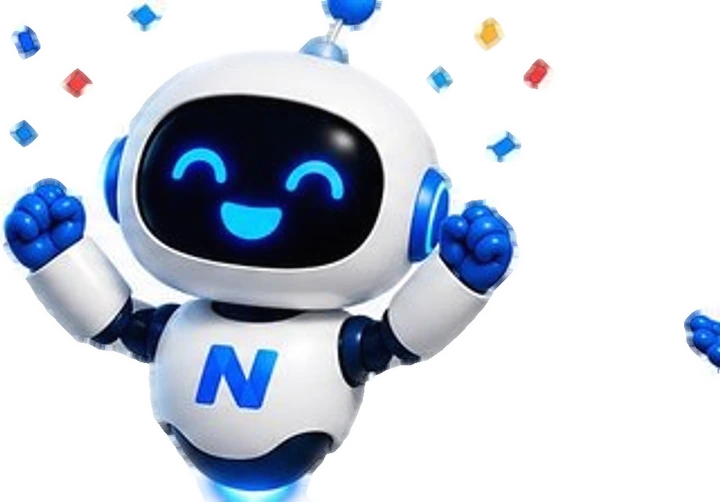
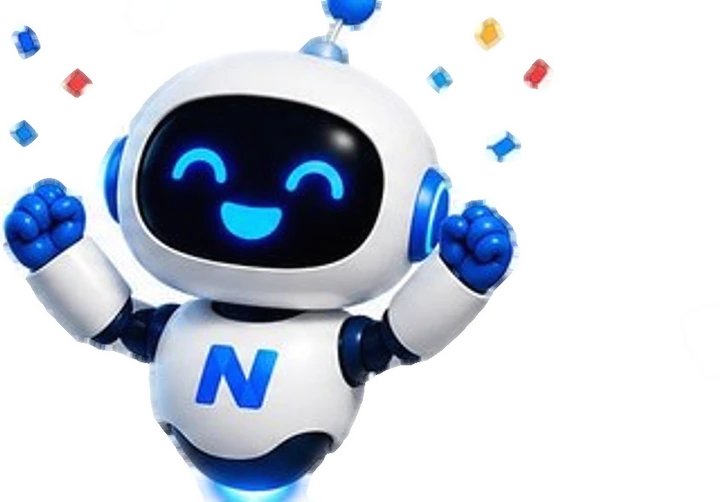
style: la mascota de Nexo en alta calidad en el inicio de sesion, el recorrido de bienvenida, el asistente y Cargar inventario (recorte limpio, sin pedazos sueltos)

Changed region(s): [[0.9472, 0.5976, 1.0, 0.747], [0.1833, 0.0, 0.2444, 0.0598]]

diff --git a/public/index.html b/public/index.html
@@ -86,7 +86,7 @@
   <link rel="stylesheet" href="css/components/ticket-qr.css?v=ticket-qr-20261103-02">
   <link rel="stylesheet" href="css/components/acciones-tabla.css?v=acciones-20261103-05">
   <link rel="stylesheet" href="css/components/por-vencer.css?v=pv-20261103-04">
-  <link rel="stylesheet" href="css/components/practica-nexo.css?v=practica-20261104-13">
+  <link rel="stylesheet" href="css/components/practica-nexo.css?v=practica-20261104-14">
  <script src="https://cdn.jsdelivr.net/npm/chart.js"></script>
  <script src="https://cdn.jsdelivr.net/npm/jsbarcode@3.11.5/dist/JsBarcode.all.min.js"></script>
  <script src="https://cdn.jsdelivr.net/npm/xlsx@0.18.5/dist/xlsx.full.min.js"></script>
@@ -100,7 +100,7 @@
    <div class="rn-marca"><img src="nexo-pos-icon.jpg" alt="Nexo"><span>Nexo</span></div>
    <div class="rn-escena">
     <div class="rn-burbuja">¡Hola! Soy Nexo 👋<br>Te acompaño para que tu negocio quede listo en unos minutos.</div>
-    <img class="rn-mascota" src="img/nexo-ia/celebrando-transparente.png" alt="Nexo, tu asistente">
+    <img class="rn-mascota" src="img/nexo-ia/celebrando-hd.webp" alt="Nexo, tu asistente">
    </div>
   </aside>
   <main class="rn-contenido">
@@ -280,7 +280,7 @@
  <img src="nexo-pos-logo-transparente.png" alt="Nexo">
  </div>
 
- <img class="login-personaje" src="img/nexo-ia/feliz-transparente.png" alt="Nexo">
+ <img class="login-personaje" src="img/nexo-ia/feliz-hd.webp" alt="Nexo">
 
  </div>
 
@@ -312,7 +312,7 @@
  </div>
  </div>
  <div class="pin-perfil-saludo">
- <img src="img/nexo-ia/feliz-transparente.png" alt="Nexo">
+ <img src="img/nexo-ia/feliz-hd.webp" alt="Nexo">
  <div>
  <strong>¡Hola! Soy Nexo</strong>
  <span>Ingresa tu codigo de acceso para continuar.</span>
@@ -395,7 +395,7 @@
 
  <div data-rn-etapas="2"></div>
  <div class="rn-saludo-perfil">
-  <img src="img/nexo-ia/feliz-transparente.png" alt="Nexo">
+  <img src="img/nexo-ia/feliz-hd.webp" alt="Nexo">
   <div><strong>¡Ya casi!</strong><span>Dime cómo te llamo y elige un PIN. Es lo que usarás para entrar a diario.</span></div>
  </div>
 
@@ -1879,7 +1879,7 @@
   <script src="js/toast-pos.js?v=asistente-20261014-01"></script>
   <script src="js/desktop-updates.js?v=desktop-updates-20260826-01"></script>
   <script src="js/caja-recordatorios.js?v=recordatorio-caja-20260731-01"></script>
-  <script src="js/recorrido-nexo.js?v=equipo-20261025-01"></script>
+  <script src="js/recorrido-nexo.js?v=hd-20261104-02"></script>
   <script src="js/perfil-negocio.js?v=perfil-20261030-12"></script>
   <script src="js/config-auth.js?v=perfil-20261030-12"></script>
   <script src="js/ticket-template.js?v=ticket-digital-20260831-01"></script>
@@ -1928,7 +1928,7 @@
  <script src="js/servicios-pos.js?v=servicios-20261030-01"></script>
  <script src="js/favoritos-pos.js?v=favoritos-20261031-04"></script>
  <script src="js/fotos-sugeridas.js?v=fotos-sugeridas-20261021-02"></script>
-<script src="js/carga-inventario.js?v=perfil-20261103-13"></script>
+<script src="js/carga-inventario.js?v=perfil-20261104-14"></script>
  <script src="js/etiquetas-secciones.js?v=secciones-20261101-01"></script>
  <script src="js/barcode-labels.js?v=etiquetas-20261101-03"></script>
  <script src="js/sitio-web-view.js?v=vista-previa-real-20260924-01"></script>
@@ -1939,13 +1939,13 @@
   <script src="js/low-stock.js?v=bajo-20261102-02"></script>
   <script src="js/expiring-products.js?v=listas-producto-20261102-02"></script>
   <script src="js/por-vencer-tarjetas.js?v=pv-20261103-04"></script>
-  <script src="js/practica-nexo.js?v=practica-20261104-13"></script>
+  <script src="js/practica-nexo.js?v=practica-20261104-14"></script>
   <script src="js/lotes-ui.js?v=lotes-20261103-05"></script>
 <script src="js/factura-parser.js?v=fix-iva-cero-20260830-01"></script>
 <script src="js/ferretero-flow.js?v=frutas-20261102-04"></script>
 <script src="js/nexo-tour.js?v=bienvenida-20260730-01"></script>
 <script src="js/nexo-onboarding.js?v=bienvenida-20260730-01"></script>
-<script src="js/asistente-inicio.js?v=perfil-20261104-14"></script>
+<script src="js/asistente-inicio.js?v=perfil-20261104-15"></script>
 <script src="js/nexo-ia.js?v=ia-streaming-20260827-01"></script>
 <script src="js/pos-busqueda-ia.js?v=borde-siri-20260721-01"></script>
 <script src="js/explorar-nexo-view.js?v=explorar-nexo-giro-20261117-02"></script>

diff --git a/public/js/asistente-inicio.js b/public/js/asistente-inicio.js
@@ -192,14 +192,14 @@ function asistenteMontar() {
    <div class="rn-marca"><img src="nexo-pos-icon.jpg" alt="Nexo"><span>Nexo</span></div>
    <div class="rn-escena">
     <div class="rn-burbuja" id="asistenteBurbuja"></div>
-    <img class="rn-mascota" id="asistenteMascotaGrande" src="img/nexo-ia/feliz-transparente.png" alt="Nexo, tu asistente">
+    <img class="rn-mascota" id="asistenteMascotaGrande" src="img/nexo-ia/feliz-hd.webp" alt="Nexo, tu asistente">
    </div>
   </aside>
   <div class="asistente-card">
    <div id="asistenteEtapas" class="rn-etapas"></div>
    <div class="asistente-progreso"><span id="asistenteBarra" style="width:0%"></span></div>
    <div class="asistente-cabecera">
-    <img class="asistente-mascota" src="img/nexo-ia/feliz-transparente.png" alt="Nexo">
+    <img class="asistente-mascota" src="img/nexo-ia/feliz-hd.webp" alt="Nexo">
     <div>
      <small id="asistenteEtapa"></small>
      <h2 id="asistenteTitulo"></h2>

diff --git a/tests/recorrido-nexo.test.js b/tests/recorrido-nexo.test.js
@@ -59,7 +59,7 @@ test("cada paso del asistente tiene su gesto y su frase, y cada gesto tiene su i
 
     const gestos = new Set([...escenas.matchAll(/gesto: "(\w+)"/g)].map(m => m[1]));
     for (const gesto of gestos) {
-        assert.ok(fs.existsSync(path.join(publico, "img", "nexo-ia", `${gesto}-transparente.png`)), `falta la imagen ${gesto}-transparente.png`);
+        assert.ok(fs.existsSync(path.join(publico, "img", "nexo-ia", `${gesto}-hd.webp`)), `falta la imagen ${gesto}-hd.webp`);
     }
 });
 

diff --git a/public/js/carga-inventario.js b/public/js/carga-inventario.js
@@ -323,7 +323,7 @@ function ciRender() {
 function ciCabecera(titulo, texto, { atras = false } = {}) {
     return `
     <div class="ci-cabecera">
-        <img class="ci-mascota" src="img/nexo-ia/feliz-transparente.png" alt="Nexo">
+        <img class="ci-mascota" src="img/nexo-ia/feliz-hd.webp" alt="Nexo">
         <div>
             ${atras ? `<button type="button" class="ci-atras" onclick="ciIr('inicio')">&larr; Otras formas de cargar</button>` : ""}
             <h2>${titulo}</h2>

diff --git a/public/js/recorrido-nexo.js b/public/js/recorrido-nexo.js
@@ -15,7 +15,7 @@ window.recorridoNexo = (function () {
  const ETAPAS = ["Tu cuenta", "Tu perfil", "Tu negocio", "¡A vender!"];
 
  function mascota(expresion) {
-  return `img/nexo-ia/${expresion}-transparente.png`;
+  return `img/nexo-ia/${expresion}-hd.webp`;
  }
 
  // actual: 1 a 4. Las anteriores aparecen como hechas.
